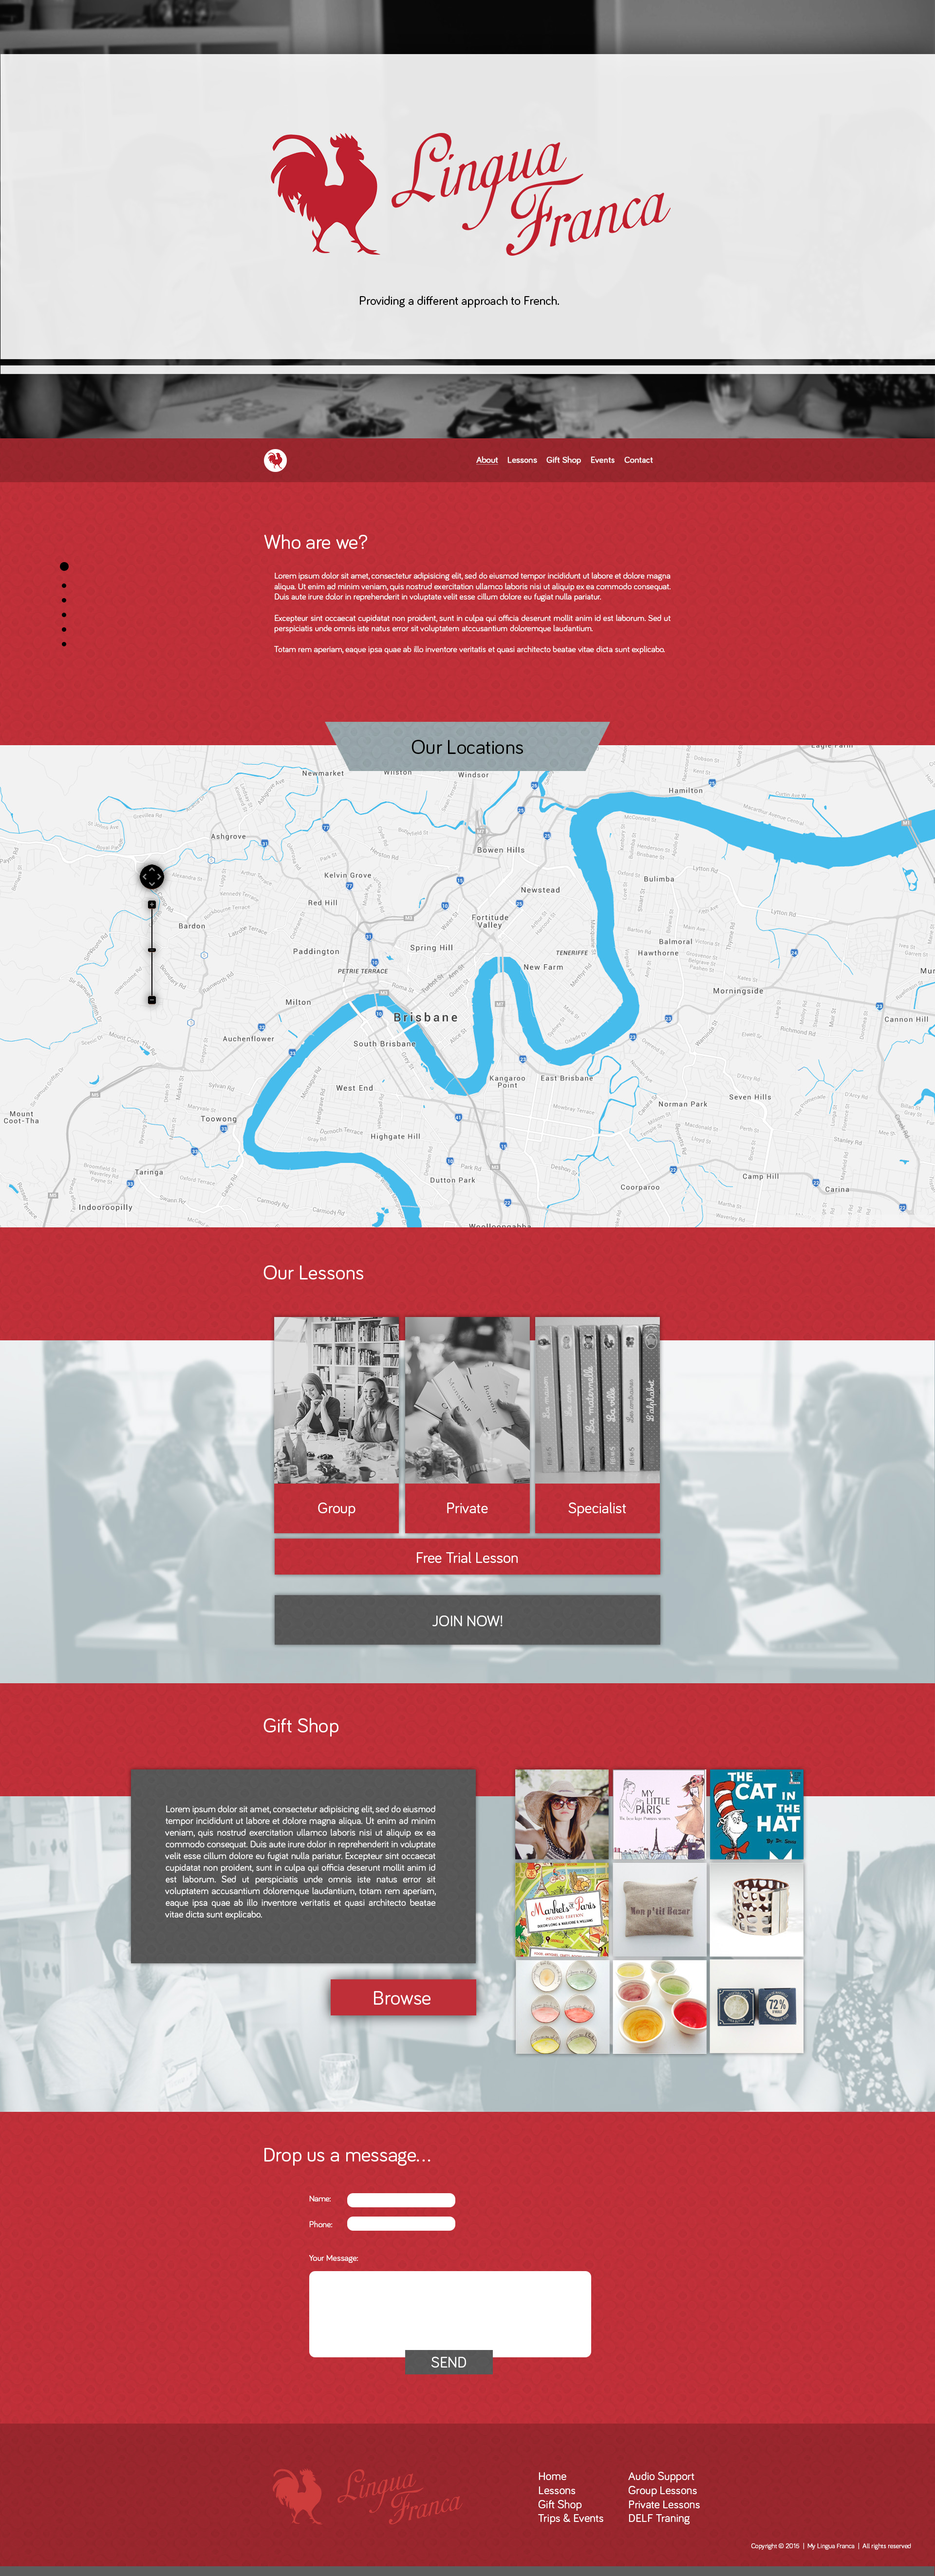
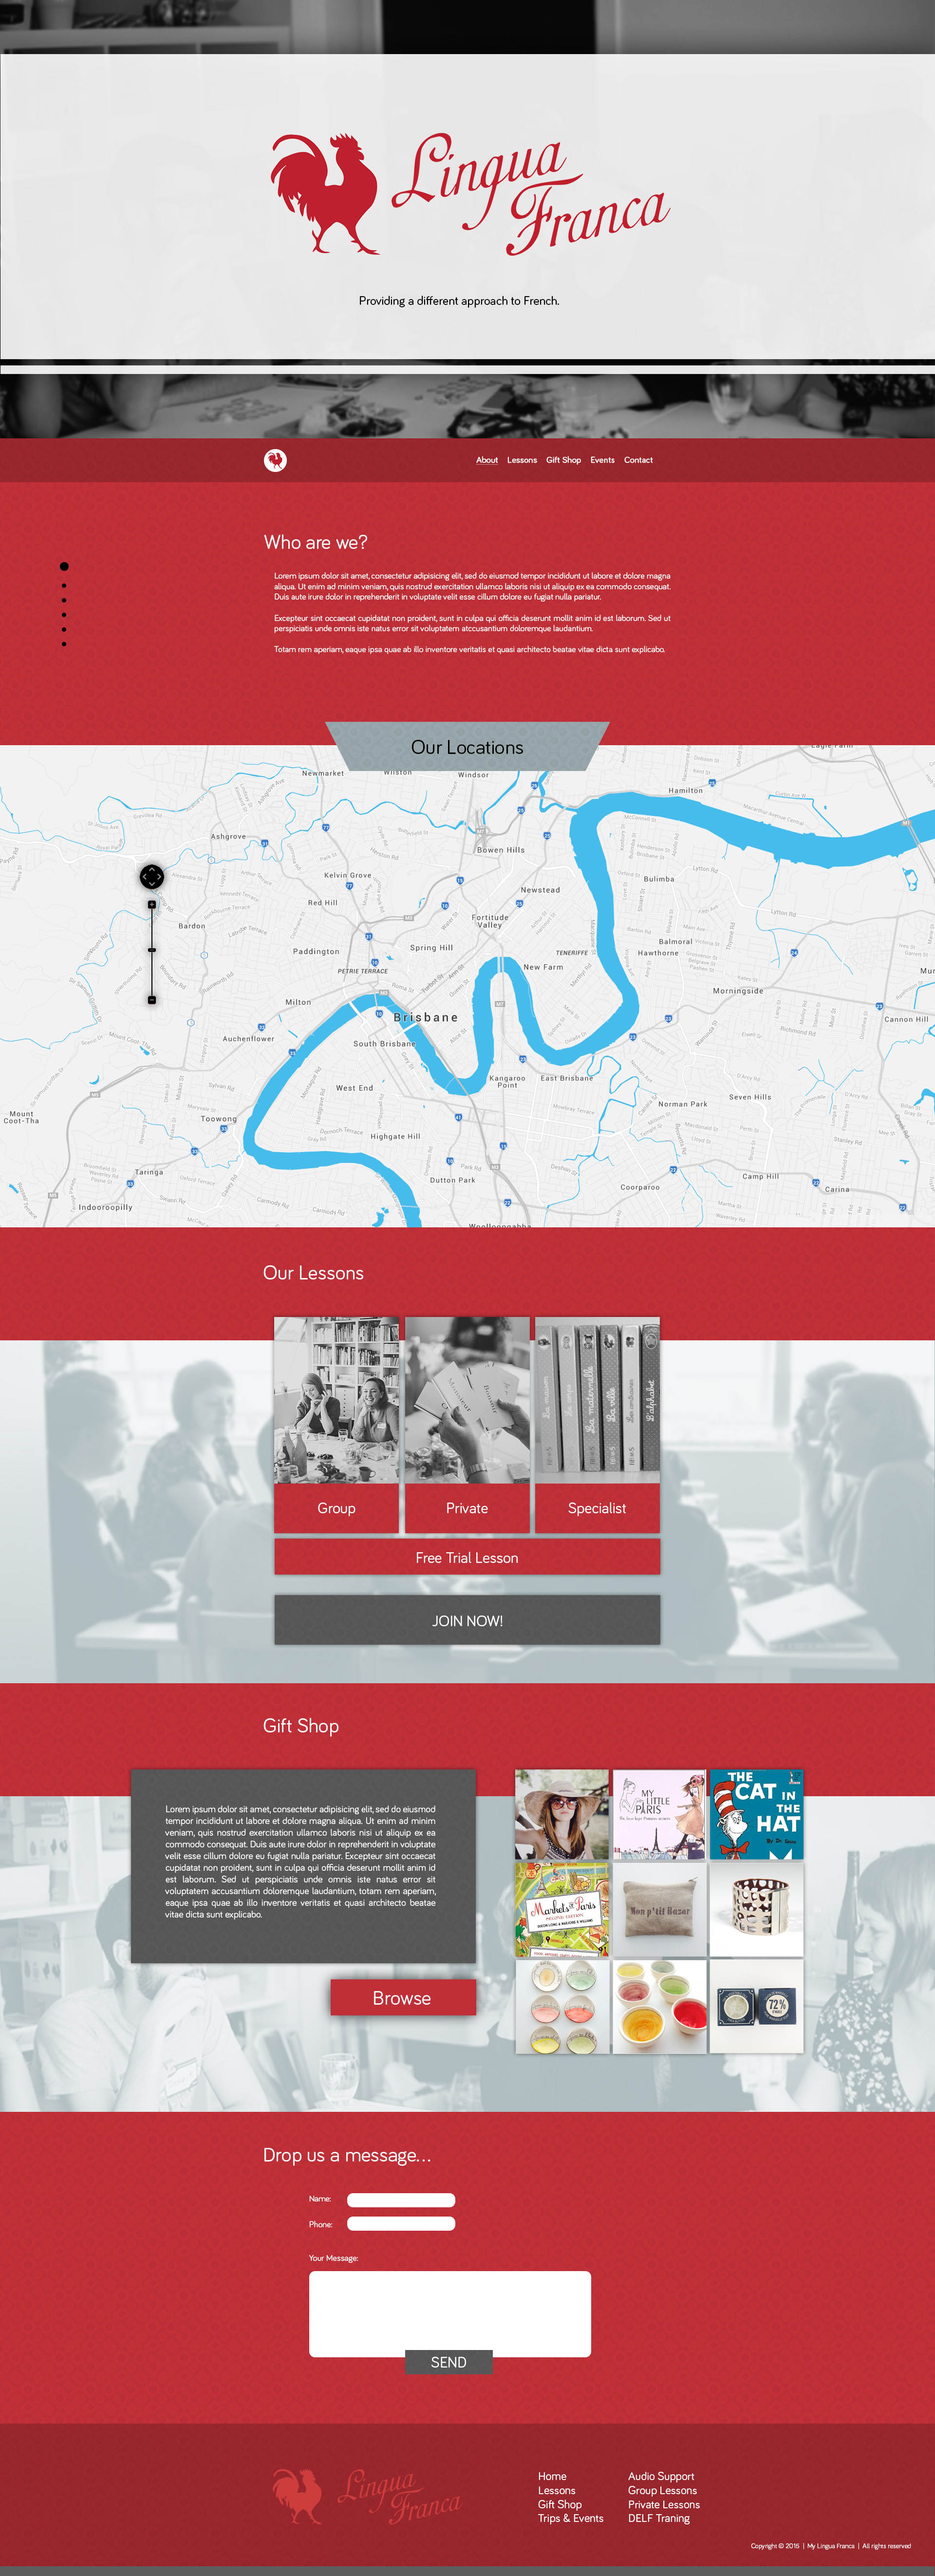
Speed optimization

Changed region(s): [[0.5938, 0.2184, 0.625, 0.2496], [0.4688, 0.2184, 0.5, 0.2496], [0.3438, 0.2184, 0.375, 0.2496]]

diff --git a/index.html b/index.html
@@ -76,6 +76,6 @@
 	<img id="banner" src="images/chapada.png" />
 	<img  id='patrick' class="design" src='images/Patrick.jpg' />
 	<img id='darren' class="design" src='images/Darren.jpg' />
-	<img id='charlie' class="design" src='images/Charlie.png' />
+	<img id='charlie' class="design" src='images/Charlie.jpg' />
 </body>
 </html>
